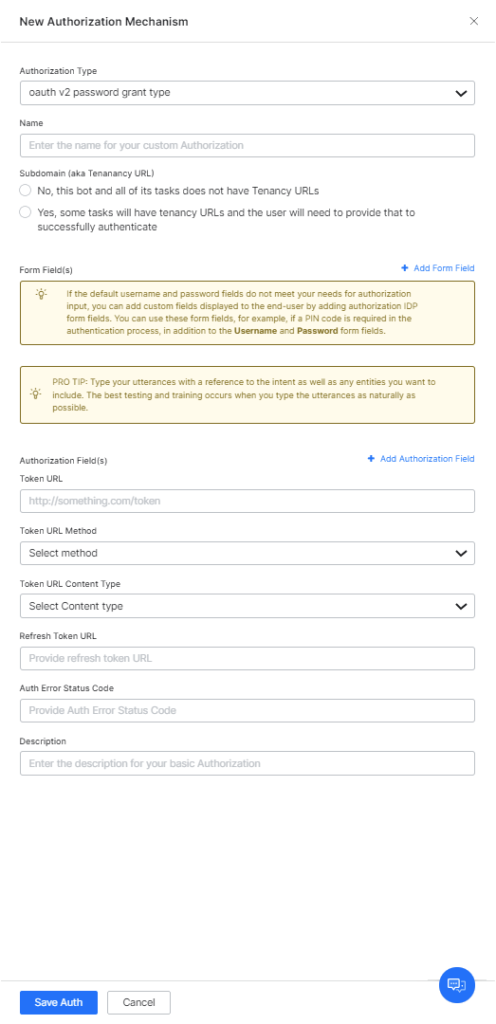
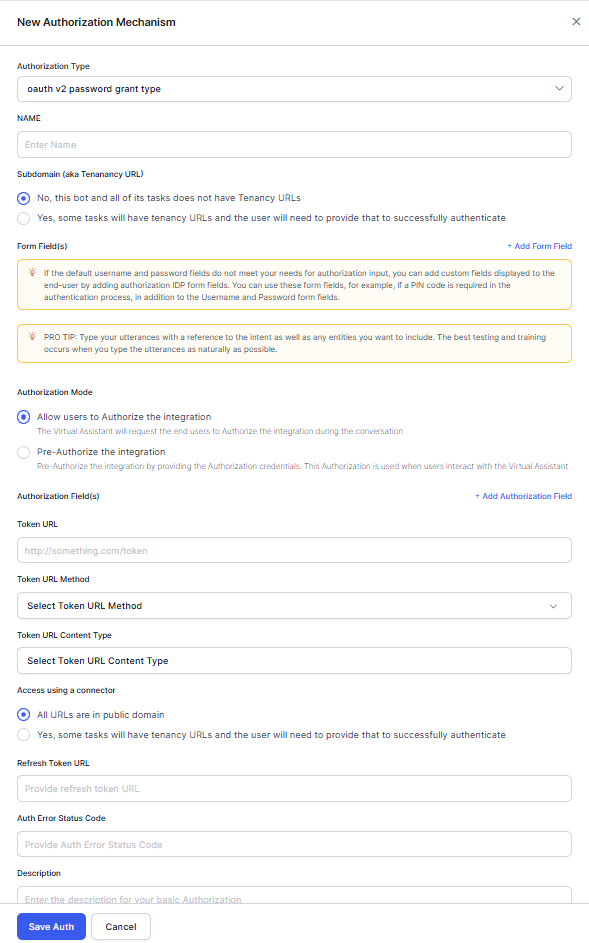
updates

diff --git a/docs/xo/app-settings/dev-tools/bot-authorization/setting-up-authorization-using-oauth-v2-password-grant.md b/docs/xo/app-settings/dev-tools/bot-authorization/setting-up-authorization-using-oauth-v2-password-grant.md
@@ -45,6 +45,25 @@ In the following example configuration, the tenancy URL contains the {tenant} or
 
 <img src="../images/oauth-v2-password-grant-img3.png" alt="Defining Tenancy" title="Defining Tenancy" style="border: 1px solid gray;zoom:80%;"/>
 
+
+
+## Selecting Authorization Mode
+
+This section defines how authorization is handled for the integration.
+
+
+
+* **Allow users to authorize the integration**: End users are prompted to authorize the integration during the conversation with AI Agents.
+
+* **Pre-authorize the integration (Recommended)**: Authorization credentials are provided in advance. This authorization is reused whenever users interact with the AI Agent, eliminating the need for individual authorization.
+
+Auto-Refresh Token Regeneration can be enabled using the provided consent checkbox. When enabled, the platform automatically regenerates the Refresh Token using the stored OAuth credentials.
+
+If the Auth Token expires, the Refresh Token is used to generate a new Auth Token. If the Refresh Token itself expires, the platform automatically generates a new Refresh Token (when the checkbox is enabled), without requiring any manual intervention.
+
+<img src="../images/authorization-mode.png" alt="Authorization Mode" title="Authorization Mode" style="border: 1px solid gray;zoom:80%;"/>
+
+
 ## Adding Form Fields
 
 If, for example, the default username and password fields do not meet your needs for authorization input, you can add custom fields displayed to the end-user by adding authorization IDP form fields. You can use these form fields, for example, if PIN code is required in the authorization process.

diff --git a/docs/xo/release-notes/11.x/platform-services.md b/docs/xo/release-notes/11.x/platform-services.md
@@ -19,14 +19,16 @@ Change Logs will track the entire prompt lifecycle, including creation, updates,
 
 **Enhanced User Engagement Trend API (v2)**
 
-The User Engagement Trend API now delivers all user engagement metrics through a single endpoint. This includes counts for unique, new, and returning users, along with daily or hourly averages for each category. 
+The User Engagement Trend API now delivers all user engagement metrics through a single endpoint. This includes counts for unique, new, and returning users, along with daily or hourly averages for each category. [Learn more :octicons-arrow-right-24:](../../apis/automation/user-engagement-trend-v2.md)
+
 
 <font size="4">App Settings</font>
 
 
 **Auto-Token Regeneration for OAuth2 Password Grant Type**
 
-The Platform now automatically regenerates Auth and Refresh tokens for the OAuth 2.0 Password Grant Type using stored credentials, ensuring uninterrupted service when tokens expire. 
+The Platform now automatically regenerates Auth and Refresh tokens for the OAuth 2.0 Password Grant Type using stored credentials, ensuring uninterrupted service when tokens expire. [Learn more :octicons-arrow-right-24:](../../app-settings/dev-tools/bot-authorization/setting-up-authorization-using-oauth-v2-password-grant.md#selecting-authorization-mode)
+
 
 **End-to-End Payload Encryption Extended to Additional APIs**
 
